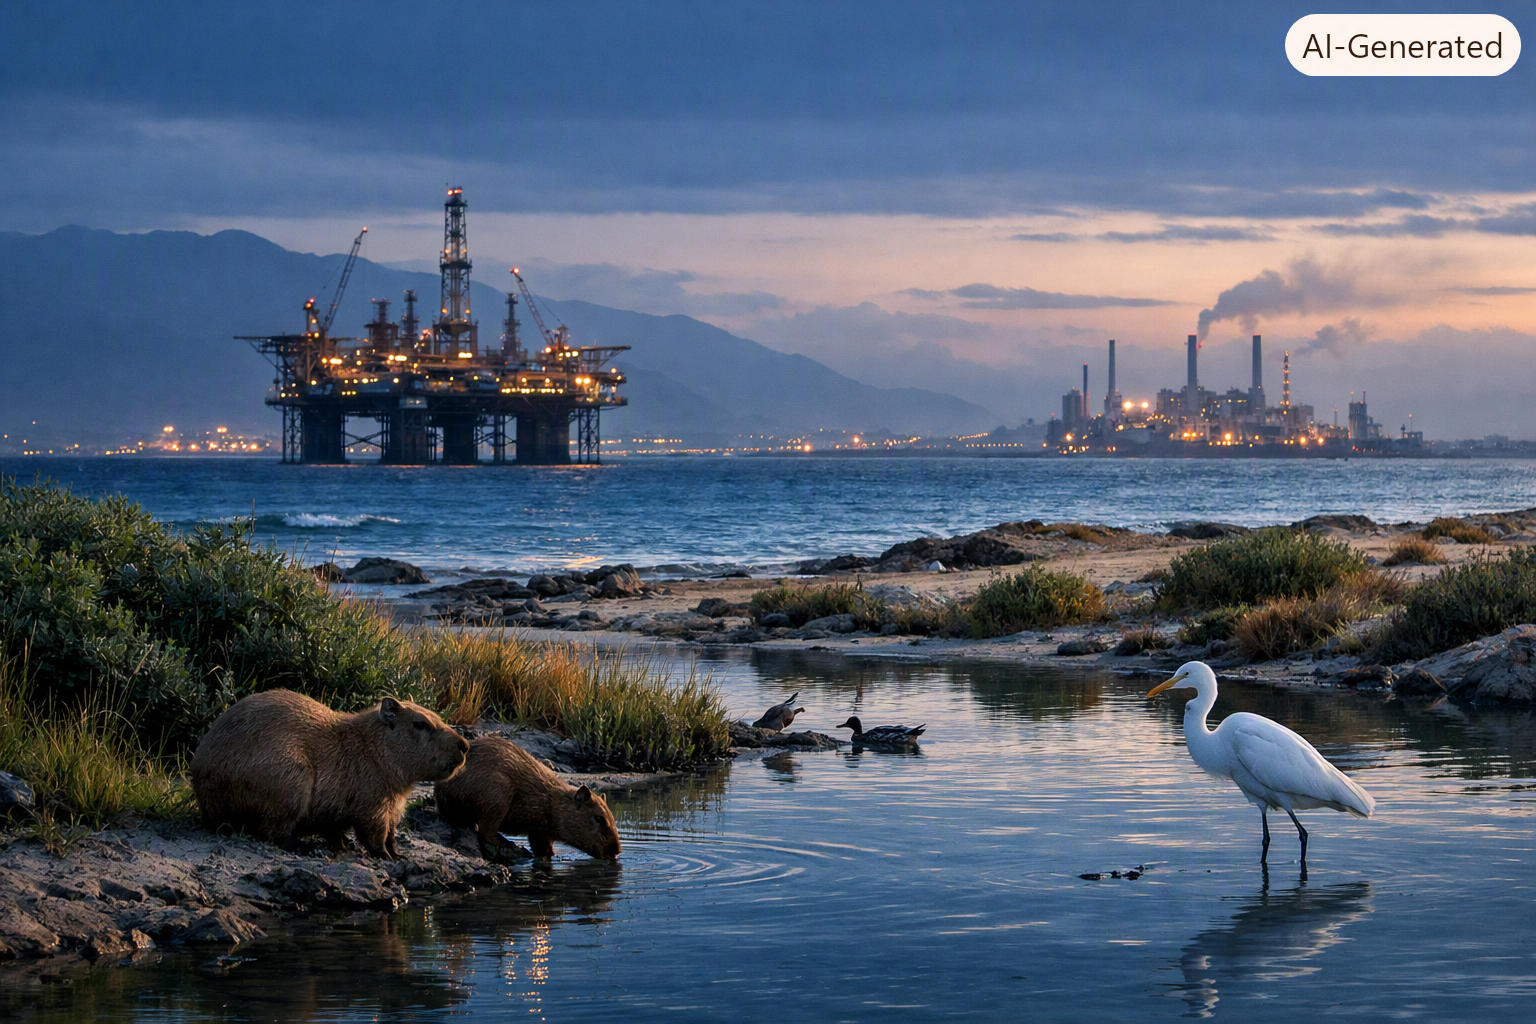
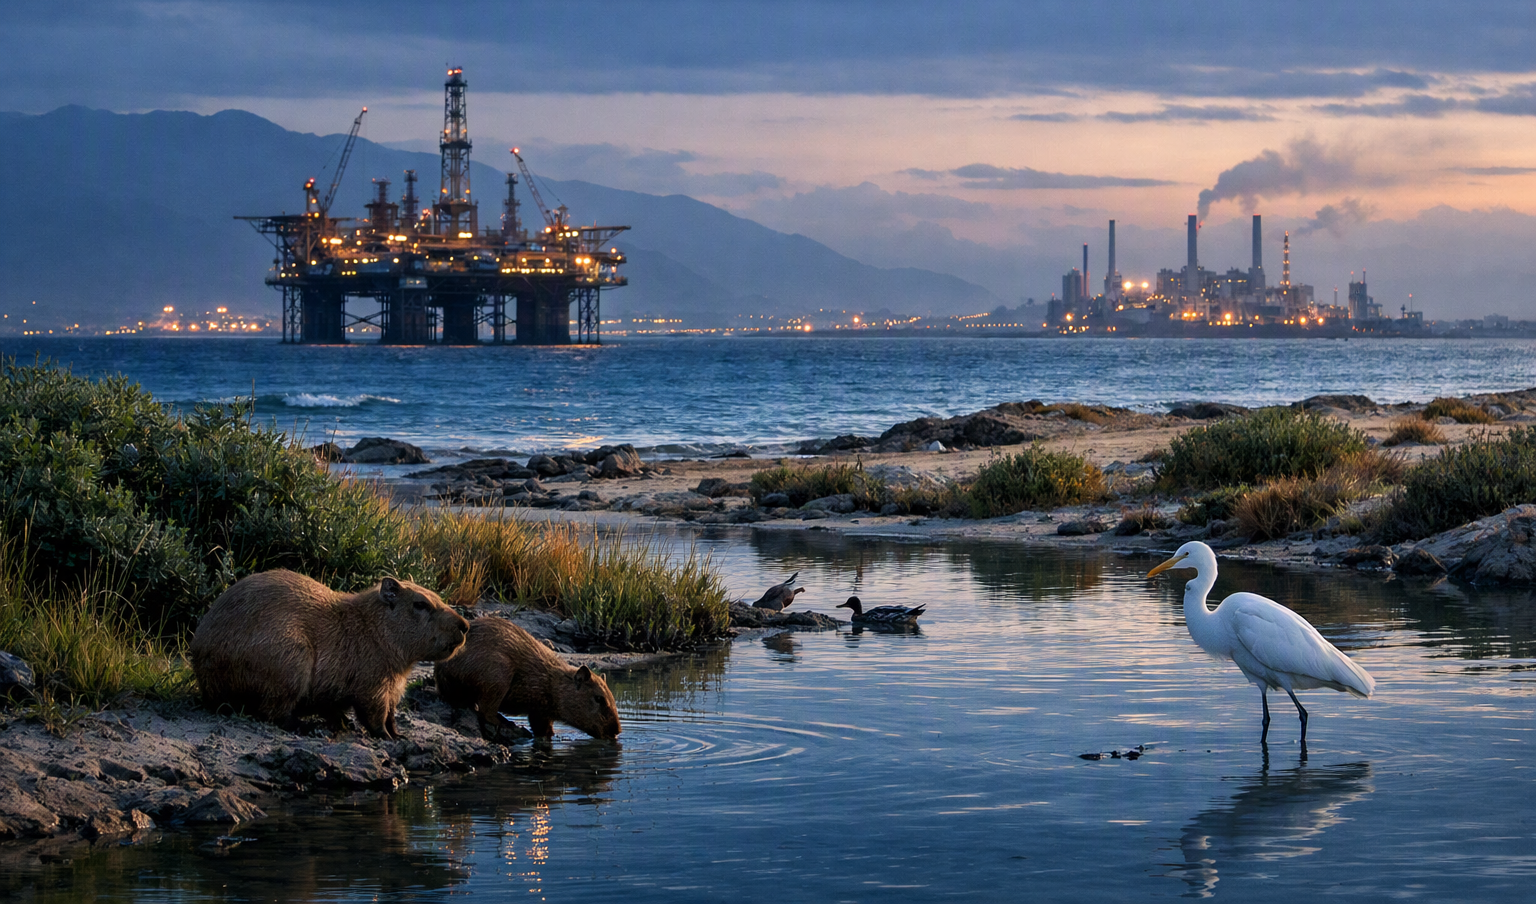
Background OG1: remove marca dagua AI-Generated das 15 imagens (corte fisico do topo), CSS ajustado pra proporcao real sem cortar mais nada

diff --git a/oil-gas/unit-2/capsule-17-background.html b/oil-gas/unit-2/capsule-17-background.html
@@ -30,7 +30,7 @@ body{background:#0a0f1e;font-family:'Barlow',sans-serif;min-height:100vh}
 .text-block p{margin-bottom:9px}
 .hl{color:#f5a623;text-decoration:none;border-bottom:1px dotted rgba(245,166,35,.4)}
 .hl:hover{color:#f5c87a}
-.hero-img{width:100%;aspect-ratio:16/9;max-height:340px;object-fit:cover;object-position:center;border-radius:8px;border:1px solid rgba(245,166,35,.2);margin-bottom:12px;display:block}
+.hero-img{width:100%;max-width:640px;aspect-ratio:1536/904;object-fit:cover;object-position:center;margin-left:auto;margin-right:auto;border-radius:8px;border:1px solid rgba(245,166,35,.2);margin-bottom:12px;display:block}
 .task-box{background:#0a1628;border:1px solid rgba(245,166,35,.25);border-radius:8px;padding:10px 12px;display:flex;flex-direction:column;gap:8px;margin-top:12px}
 .task-box p{font-size:11px;color:#f5c87a;font-style:italic;line-height:1.45}
 .whatsapp-btn{display:flex;align-items:center;justify-content:center;gap:6px;background:#25D366;color:#fff;border:none;border-radius:8px;padding:7px 12px;font-family:'Barlow Condensed',sans-serif;font-size:13px;font-weight:600;cursor:pointer;transition:background .2s;width:100%}

diff --git a/oil-gas/unit-3/capsule-31-background.html b/oil-gas/unit-3/capsule-31-background.html
@@ -30,7 +30,7 @@ body{background:#0a0f1e;font-family:'Barlow',sans-serif;min-height:100vh}
 .text-block p{margin-bottom:9px}
 .hl{color:#c0392b;text-decoration:none;border-bottom:1px dotted rgba(192,57,43,.4)}
 .hl:hover{color:#e07a74}
-.hero-img{width:100%;aspect-ratio:16/9;max-height:340px;object-fit:cover;object-position:center;border-radius:8px;border:1px solid rgba(192,57,43,.2);margin-bottom:12px;display:block}
+.hero-img{width:100%;max-width:640px;aspect-ratio:1536/904;object-fit:cover;object-position:center;margin-left:auto;margin-right:auto;border-radius:8px;border:1px solid rgba(192,57,43,.2);margin-bottom:12px;display:block}
 .task-box{background:#0a1628;border:1px solid rgba(192,57,43,.25);border-radius:8px;padding:10px 12px;display:flex;flex-direction:column;gap:8px;margin-top:12px}
 .task-box p{font-size:11px;color:#e07a74;font-style:italic;line-height:1.45}
 .whatsapp-btn{display:flex;align-items:center;justify-content:center;gap:6px;background:#25D366;color:#fff;border:none;border-radius:8px;padding:7px 12px;font-family:'Barlow Condensed',sans-serif;font-size:13px;font-weight:600;cursor:pointer;transition:background .2s;width:100%}

diff --git a/oil-gas/unit-1/capsule-1-background.html b/oil-gas/unit-1/capsule-1-background.html
@@ -26,7 +26,7 @@ body{background:#0a0f1e;font-family:'Barlow',sans-serif;min-height:100vh}
 .left-col{display:flex;flex-direction:column;gap:12px}
 .main-area{background:#111827;border-radius:10px;padding:14px 16px}
 .zone-label{font-size:9px;letter-spacing:.12em;text-transform:uppercase;color:#f5a623;font-weight:600;margin-bottom:8px}
-.hero-img{width:100%;aspect-ratio:16/9;max-height:340px;object-fit:cover;object-position:center;border-radius:8px;border:1px solid rgba(245,166,35,.2);margin-bottom:12px;display:block}
+.hero-img{width:100%;max-width:640px;aspect-ratio:1536/904;object-fit:cover;object-position:center;margin-left:auto;margin-right:auto;border-radius:8px;border:1px solid rgba(245,166,35,.2);margin-bottom:12px;display:block}
 .text-block{font-size:12px;line-height:1.65;color:#c8d8e8}
 .text-block p{margin-bottom:7px}
 .hl{color:#f5c87a;font-weight:600;background:rgba(245,166,35,.12);padding:0 3px;border-radius:3px;text-decoration:none;border-bottom:1px dashed rgba(245,166,35,.6);transition:background .2s,color .2s}

diff --git a/oil-gas/unit-7/capsule-85-background.html b/oil-gas/unit-7/capsule-85-background.html
@@ -26,7 +26,7 @@ body{background:#0a0f1e;font-family:'Barlow',sans-serif;min-height:100vh}
 .audio-bar{background:#0d1b2a;border-bottom:1px solid rgba(127,179,211,.2);padding:8px 24px;display:flex;align-items:center;gap:12px}
 .audio-label{font-size:10px;letter-spacing:.1em;text-transform:uppercase;color:#7fb3d3;font-weight:600;white-space:nowrap}
 .audio-bar audio{flex:1;height:32px;accent-color:#7fb3d3}
-.hero-img{width:100%;aspect-ratio:16/9;max-height:340px;object-fit:cover;object-position:center;border-radius:8px;border:1px solid rgba(127,179,211,.2);margin-bottom:12px;display:block}
+.hero-img{width:100%;max-width:640px;aspect-ratio:1536/904;object-fit:cover;object-position:center;margin-left:auto;margin-right:auto;border-radius:8px;border:1px solid rgba(127,179,211,.2);margin-bottom:12px;display:block}
 .bg-text{font-size:13px;color:#c8d8e8;line-height:1.85;margin-bottom:12px}
 .bg-text p{margin-bottom:10px}
 .highlight{color:#b0d0e8;font-weight:500}

diff --git a/oil-gas/unit-6/capsule-72-background.html b/oil-gas/unit-6/capsule-72-background.html
@@ -26,7 +26,7 @@ body{background:#0a0f1e;font-family:'Barlow',sans-serif;min-height:100vh}
 .audio-bar{background:#0d1b2a;border-bottom:1px solid rgba(230,126,34,.2);padding:8px 24px;display:flex;align-items:center;gap:12px}
 .audio-label{font-size:10px;letter-spacing:.1em;text-transform:uppercase;color:#e67e22;font-weight:600;white-space:nowrap}
 .audio-bar audio{flex:1;height:32px;accent-color:#e67e22}
-.hero-img{width:100%;aspect-ratio:16/9;max-height:340px;object-fit:cover;object-position:center;border-radius:8px;border:1px solid rgba(230,126,34,.2);margin-bottom:12px;display:block}
+.hero-img{width:100%;max-width:640px;aspect-ratio:1536/904;object-fit:cover;object-position:center;margin-left:auto;margin-right:auto;border-radius:8px;border:1px solid rgba(230,126,34,.2);margin-bottom:12px;display:block}
 .bg-text{font-size:13px;color:#c8d8e8;line-height:1.85;margin-bottom:12px}
 .bg-text p{margin-bottom:10px}
 .highlight{color:#f0ad72;font-weight:500}

diff --git a/oil-gas/unit-5/capsule-58-background.html b/oil-gas/unit-5/capsule-58-background.html
@@ -26,7 +26,7 @@ body{background:#0a0f1e;font-family:'Barlow',sans-serif;min-height:100vh}
 .audio-bar{background:#0d1b2a;border-bottom:1px solid rgba(212,167,106,.2);padding:8px 24px;display:flex;align-items:center;gap:12px}
 .audio-label{font-size:10px;letter-spacing:.1em;text-transform:uppercase;color:#d4a76a;font-weight:600;white-space:nowrap}
 .audio-bar audio{flex:1;height:32px;accent-color:#d4a76a}
-.hero-img{width:100%;aspect-ratio:16/9;max-height:340px;object-fit:cover;object-position:center;border-radius:8px;border:1px solid rgba(212,167,106,.2);margin-bottom:12px;display:block}
+.hero-img{width:100%;max-width:640px;aspect-ratio:1536/904;object-fit:cover;object-position:center;margin-left:auto;margin-right:auto;border-radius:8px;border:1px solid rgba(212,167,106,.2);margin-bottom:12px;display:block}
 .bg-text{font-size:12.5px;color:#c8d8e8;line-height:1.85}
 .bg-text p{margin-bottom:10px}
 .bg-text p:last-child{margin-bottom:0}

diff --git a/oil-gas/unit-4/capsule-45-background.html b/oil-gas/unit-4/capsule-45-background.html
@@ -26,7 +26,7 @@ body{background:#0a0f1e;font-family:'Barlow',sans-serif;min-height:100vh}
 .audio-bar{background:#0d1b2a;border-bottom:1px solid rgba(241,196,15,.2);padding:8px 24px;display:flex;align-items:center;gap:12px}
 .audio-label{font-size:10px;letter-spacing:.1em;text-transform:uppercase;color:#f1c40f;font-weight:600;white-space:nowrap}
 .audio-bar audio{flex:1;height:32px;accent-color:#f1c40f}
-.hero-img{width:100%;aspect-ratio:16/9;max-height:340px;object-fit:cover;object-position:center;border-radius:8px;border:1px solid rgba(241,196,15,.2);margin-bottom:12px;display:block}
+.hero-img{width:100%;max-width:640px;aspect-ratio:1536/904;object-fit:cover;object-position:center;margin-left:auto;margin-right:auto;border-radius:8px;border:1px solid rgba(241,196,15,.2);margin-bottom:12px;display:block}
 .bg-text{font-size:12.5px;color:#c8d8e8;line-height:1.85}
 .bg-text p{margin-bottom:10px}
 .bg-text p:last-child{margin-bottom:0}

diff --git a/oil-gas/unit-8/capsule-98-background.html b/oil-gas/unit-8/capsule-98-background.html
@@ -37,7 +37,7 @@
   .content { display: grid; grid-template-columns: 1fr 340px; gap: 12px; padding: 0 16px 16px; }
   .left-col { display: flex; flex-direction: column; gap: 12px; }
   .main-area { background: #111827; border-radius: 10px; padding: 14px 16px; }
-  .hero-img { width: 100%; aspect-ratio: 16/9; max-height: 340px; object-fit: cover; object-position: center; border-radius: 8px; border: 1px solid #0077b630; margin-bottom: 12px; display: block; }
+  .hero-img { width:100%;max-width:640px;aspect-ratio:1536/904;object-fit:cover;object-position:center;margin-left:auto;margin-right:auto; border-radius: 8px; border: 1px solid #0077b630; margin-bottom: 12px; display: block; }
   .zone-label { font-size: 9px; letter-spacing: 0.12em; text-transform: uppercase; color: #0077b6; font-weight: 600; margin-bottom: 8px; }
   .text-block { font-size: 12px; line-height: 1.65; color: #c8d8e8; }
   .text-block p { margin-bottom: 7px; }

diff --git a/oil-gas/unit-14/capsule-177-background.html b/oil-gas/unit-14/capsule-177-background.html
@@ -23,7 +23,7 @@ body{background:#0a0f1e;font-family:'Barlow',sans-serif;min-height:100vh}
 .left-col{min-width:0}
 .zone-support{}
 @media(max-width:640px){.content{grid-template-columns:1fr}.zone-support{order:2}}
-.hero-img{width:100%;aspect-ratio:16/9;max-height:340px;object-fit:cover;object-position:center;border-radius:10px;margin-bottom:12px;display:block}
+.hero-img{width:100%;max-width:640px;aspect-ratio:1536/904;object-fit:cover;object-position:center;margin-left:auto;margin-right:auto;border-radius:10px;margin-bottom:12px;display:block}
 .bg-text{background:#111827;border:1px solid rgba(231,76,60,.18);border-radius:12px;padding:18px;margin-bottom:12px;font-size:14px;color:#c8d8e8;line-height:1.9}
 .bg-text h3{font-family:'Barlow Condensed',sans-serif;font-size:17px;font-weight:700;color:#e74c3c;margin-bottom:8px;text-transform:uppercase;letter-spacing:.06em}
 .bg-text strong{color:#f0958d}

diff --git a/oil-gas/unit-11/capsule-140-background.html b/oil-gas/unit-11/capsule-140-background.html
@@ -26,7 +26,7 @@ body{background:#0a0f1e;font-family:'Barlow',sans-serif;min-height:100vh}
 @media(max-width:700px){.content{grid-template-columns:1fr}}
 .bg-card{background:#111827;border:1px solid rgba(241,196,15,.18);border-radius:14px;padding:22px}
 .bg-title{font-family:'Barlow Condensed',sans-serif;font-size:20px;font-weight:700;color:#f5da6e;margin-bottom:14px;letter-spacing:.04em}
-.hero-img{width:100%;aspect-ratio:16/9;max-height:340px;object-fit:cover;object-position:center;border-radius:10px;margin-bottom:14px;display:block}
+.hero-img{width:100%;max-width:640px;aspect-ratio:1536/904;object-fit:cover;object-position:center;margin-left:auto;margin-right:auto;border-radius:10px;margin-bottom:14px;display:block}
 .bg-text{font-size:14px;color:#c8d8e8;line-height:1.8}
 .bg-text p{margin-bottom:14px}
 .bg-text p:last-child{margin-bottom:0}

diff --git a/oil-gas/unit-10/capsule-126-background.html b/oil-gas/unit-10/capsule-126-background.html
@@ -27,7 +27,7 @@ body{background:#0a0f1e;font-family:'Barlow',sans-serif;min-height:100vh}
 .left-col{}
 .bg-card{background:#111827;border:1px solid rgba(46,204,113,.18);border-radius:14px;padding:22px;margin-bottom:16px}
 .bg-title{font-family:'Barlow Condensed',sans-serif;font-size:22px;font-weight:700;color:#82e0aa;margin-bottom:14px;letter-spacing:.03em}
-.hero-img{width:100%;aspect-ratio:16/9;max-height:340px;object-fit:cover;object-position:center;border-radius:10px;margin-bottom:14px;display:block}
+.hero-img{width:100%;max-width:640px;aspect-ratio:1536/904;object-fit:cover;object-position:center;margin-left:auto;margin-right:auto;border-radius:10px;margin-bottom:14px;display:block}
 .bg-text{font-size:14px;color:#c8d8e8;line-height:1.8}
 .bg-text p{margin-bottom:12px}
 .bg-text p:last-child{margin-bottom:0}

diff --git a/oil-gas/unit-12/capsule-152-background.html b/oil-gas/unit-12/capsule-152-background.html
@@ -26,7 +26,7 @@ body{background:#0a0f1e;font-family:'Barlow',sans-serif;min-height:100vh}
 @media(max-width:700px){.content{grid-template-columns:1fr}}
 .left-col{display:flex;flex-direction:column;gap:16px}
 .text-card{background:#111827;border:1px solid rgba(230,126,34,.18);border-radius:12px;padding:18px}
-.hero-img{width:100%;aspect-ratio:16/9;max-height:340px;object-fit:cover;object-position:center;border-radius:10px;margin-bottom:14px;display:block}
+.hero-img{width:100%;max-width:640px;aspect-ratio:1536/904;object-fit:cover;object-position:center;margin-left:auto;margin-right:auto;border-radius:10px;margin-bottom:14px;display:block}
 .text-card p{font-size:14px;color:#c8d8e8;line-height:1.9;margin-bottom:12px}
 .text-card p:last-child{margin-bottom:0}
 .text-card p strong{color:#f0ad72}
